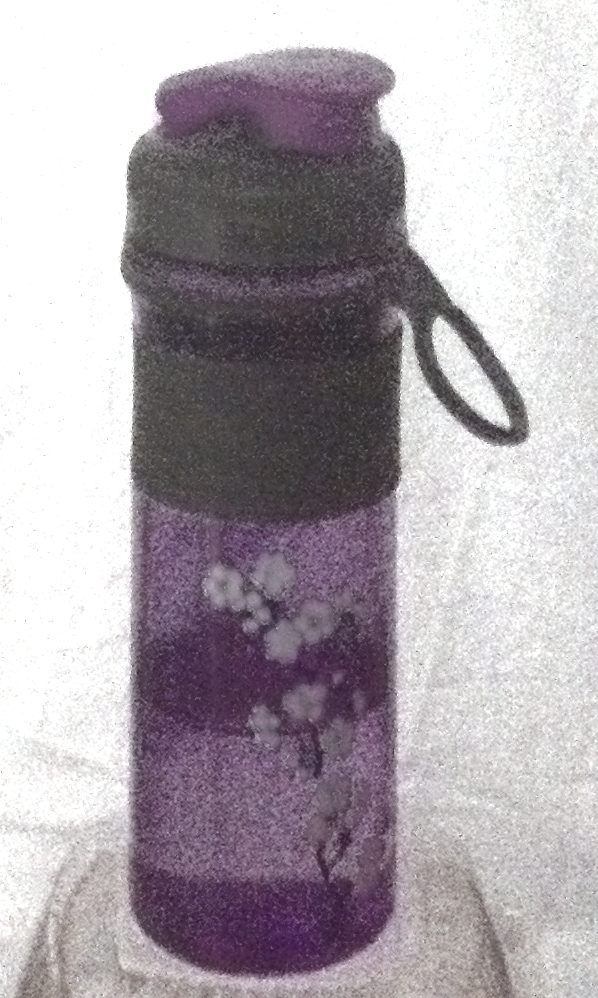
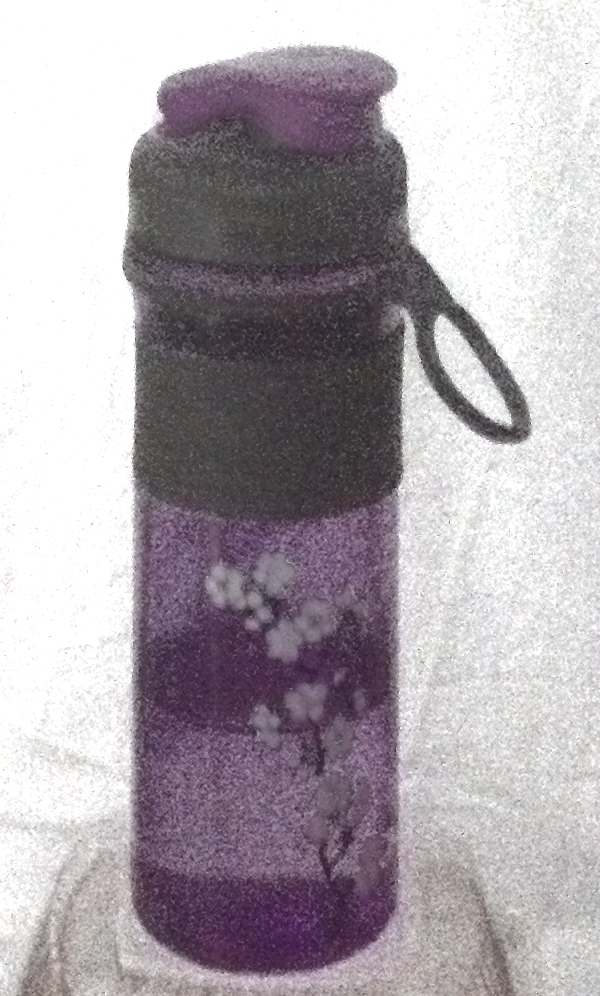
align images with edge-detecting filters

diff --git a/transparency.py b/transparency.py
@@ -6,42 +6,139 @@ im2 = imread("in2.png").astype(float) / 255
 
 # Align images
 
+def estimateHubAxis(im1, im2):
+    hubAxis = np.mean(im2, axis = (0, 1)) - np.mean(im1, axis = (0, 1))
+    hubAxis /= np.linalg.norm(hubAxis)
+    return hubAxis
+
+def getTotalArea(*images):
+    area = 0
+    for image in images:
+        area += image.shape[0] * image.shape[1]
+    return area
+
+# filterRadius = 2 * sigma
+def getFilterSize(filterRadius, sigmasInFrame):
+    filterSize = int(round(filterRadius * sigmasInFrame))
+    return filterSize
+
+def getGaussian(length, sigmasInFrame):
+    x = np.linspace(-sigmasInFrame, sigmasInFrame, length, endpoint = True)
+    np.square(x, out = x)
+    x *= -0.5
+    np.exp(x, out = x)
+    x *= sigmasInFrame / (0.5 * length * np.sqrt(2 * np.pi))
+    return x
+
+def getSpotlight(shape, sigmasInFrame):
+    column = getGaussian(shape[0], sigmasInFrame)
+    row = getGaussian(shape[1], sigmasInFrame)
+    spotlight = column[:, None] * row
+    return spotlight
+
+def getFilterGradient(angle, filterSize):
+    x = np.cos(angle)
+    y = np.sin(angle)
+    row = np.linspace(-x, x, filterSize, endpoint = True)
+    column = np.linspace(y, -y, filterSize, endpoint = True)
+    gradient = column[:, None] + row
+    return gradient
+
+# filter orientations are counterclockwise in the interval [3:00, 9:00)
+def getFilters(filterSize, sigmasInFrame, filterCount):
+    miniSpotlight = getSpotlight((filterSize, filterSize), sigmasInFrame)
+    filters = []
+    for i in xrange(filterCount):
+        angle = np.pi * i / float(filterCount)
+        gradient = getFilterGradient(angle, filterSize)
+        gradient *= miniSpotlight
+        filters.append(gradient)
+    return filters
+
+def getHalfOverhang(fixedShape, movingShape):
+    fixedShape = np.asarray(fixedShape[:2])
+    movingShape = np.asarray(movingShape[:2])
+    smallShape = np.minimum(fixedShape, movingShape)
+    overhang = movingShape - (smallShape + 1) // 2
+    return overhang
+
+def getConvolvedShape(fixedShape, movingShape, overhang):
+    fixedShape = np.asarray(fixedShape[:2])
+    movingShape = np.asarray(movingShape[:2])
+    overhang = np.asarray(overhang[:2])
+    convolvedShape = tuple(fixedShape - movingShape + 1 + 2 * overhang)
+    return convolvedShape
+
 def convolve(fixed, moving, overhang):
-    fixedShape = np.asarray(fixed.shape)
-    movingShape = np.asarray(moving.shape)
-    overhang = np.asarray(overhang)
+    wrappedShape = tuple(np.asarray(fixed.shape) + np.asarray(overhang))
+    movingReversed = moving[::-1, ::-1]
+    wrapped = np.fft.irfft2(
+        np.fft.rfft2(fixed, s = wrappedShape) \
+        * np.fft.rfft2(moving[::-1, ::-1], s = wrappedShape),
+        s = wrappedShape)
 
-    wrappedShape = tuple(fixedShape + overhang)
-
-    resultShape = tuple(fixedShape - movingShape + 1 + 2 * overhang)
-
-    wrapped = np.fft.irfft2(np.fft.rfft2(fixed[:, :],
-                                         s = wrappedShape) \
-                            * np.fft.rfft2(moving[::-1, ::-1],
-                                           s = wrappedShape),
-                            s = wrappedShape)
+    resultShape = getConvolvedShape(fixed.shape, moving.shape, overhang)
     result = wrapped[-resultShape[0]:, -resultShape[1]:]
-
     return result
 
-estimatedHubAxis = np.mean(im2, axis = (0, 1)) - np.mean(im1, axis = (0, 1))
+def getAlignment(alignmentScores, overhang):
+    alignment = np.unravel_index(np.argmax(alignmentScores),
+                                 alignmentScores.shape) - overhang
+    return alignment
 
-hubIm1 = np.dot(im1, estimatedHubAxis)
-hubIm1 -= np.mean(hubIm1)
+def crop(fixed, moving, alignment):
+    alignment = np.asarray(alignment)
 
-hubIm2 = np.dot(im2, estimatedHubAxis)
-hubIm2 -= np.mean(hubIm2)
+    fixedStart = np.maximum(alignment, 0)
+    fixedStop = np.minimum(alignment + moving.shape[:2], fixed.shape[:2])
+    croppedFixed = fixed[fixedStart[0]:fixedStop[0],
+                         fixedStart[1]:fixedStop[1]]
 
-smallShape = np.minimum(im1.shape[:2], im2.shape[:2])
-overhang = im2.shape[:2] - (smallShape + 1) // 2
-alignmentScores = convolve(hubIm1, hubIm2, overhang)
-alignmentScores /= np.sqrt(convolve(np.square(hubIm1), np.square(hubIm2),
-                                    overhang))
-del hubIm1
-del hubIm2
+    movingStart = fixedStart - alignment
+    movingStop = fixedStop - alignment
+    croppedMoving = moving[movingStart[0]:movingStop[0],
+                           movingStart[1]:movingStop[1]]
 
-alignment = np.unravel_index(np.argmin(alignmentScores),
-                             alignmentScores.shape) - overhang
+    return croppedFixed, croppedMoving
+
+hubAxis = estimateHubAxis(im1, im2)
+hubIm1 = np.dot(im1, hubAxis)
+hubIm2 = np.dot(im2, hubAxis)
+
+filterRadius = getTotalArea(im1, im2) * 0.000003
+print "Filter radius:", filterRadius
+
+filters = getFilters(getFilterSize(filterRadius, sigmasInFrame = 3),
+                     sigmasInFrame = 3, filterCount = 2)
+
+spotlight1 = getSpotlight(
+    getConvolvedShape(hubIm1.shape, filters[0].shape, overhang = (0, 0)),
+    sigmasInFrame = 3)
+spotlight2 = getSpotlight(
+    getConvolvedShape(hubIm2.shape, filters[0].shape, overhang = (0, 0)),
+    sigmasInFrame = 3)
+
+overhang = getHalfOverhang(spotlight1.shape, spotlight2.shape)
+
+alignmentScores = np.zeros(getConvolvedShape(
+    spotlight1.shape, spotlight2.shape, overhang))
+
+for i in xrange(len(filters)):
+    filteredIm1 = convolve(hubIm1, filters[i], overhang = (0, 0))
+    np.abs(filteredIm1, out = filteredIm1)
+    filteredIm1 *= spotlight1
+
+    filteredIm2 = convolve(hubIm2, filters[i], overhang = (0, 0))
+    np.abs(filteredIm2, out = filteredIm2)
+    filteredIm2 *= spotlight2
+
+    alignmentScores += convolve(filteredIm1, filteredIm2, overhang)
+
+del filteredIm1, filteredIm2
+del spotlight1, spotlight2
+del hubIm1, hubIm2
+
+alignment = getAlignment(alignmentScores, overhang)
 print "Alignment:", alignment
 
 alignmentScores -= np.min(alignmentScores)
@@ -51,15 +148,8 @@ np.clip(alignmentScores, 0, 255, out = alignmentScores)
 imsave("alignmentScores.png", alignmentScores.astype(np.uint8))
 del alignmentScores
 
-im1Start = np.maximum(alignment, 0)
-im1Stop = np.minimum(alignment + im2.shape[:2], im1.shape[:2])
-alignedIm1 = im1[im1Start[0]:im1Stop[0], im1Start[1]:im1Stop[1]]
-del im1
-
-im2Start = im1Start - alignment
-im2Stop = im1Stop - alignment
-alignedIm2 = im2[im2Start[0]:im2Stop[0], im2Start[1]:im2Stop[1]]
-del im2
+alignedIm1, alignedIm2 = crop(im1, im2, alignment)
+del im1, im2
 
 # Calculate hub axis
 
